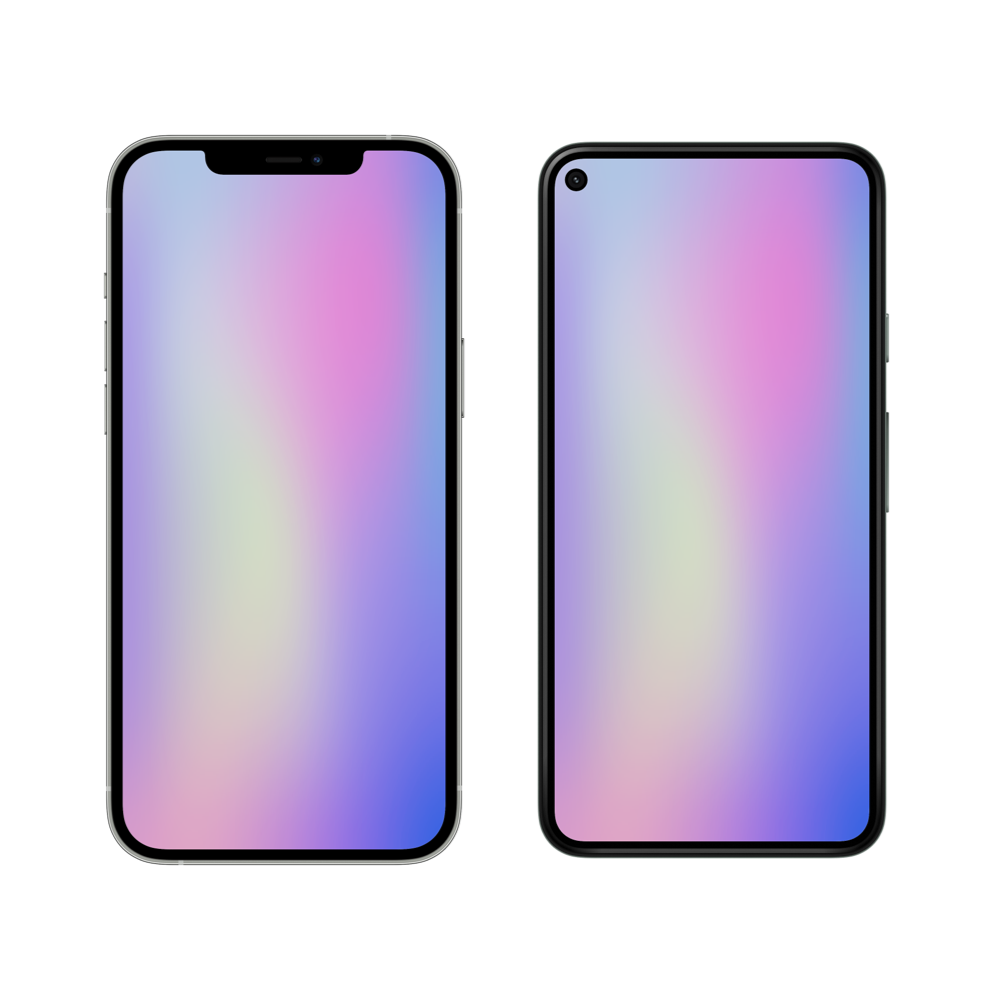
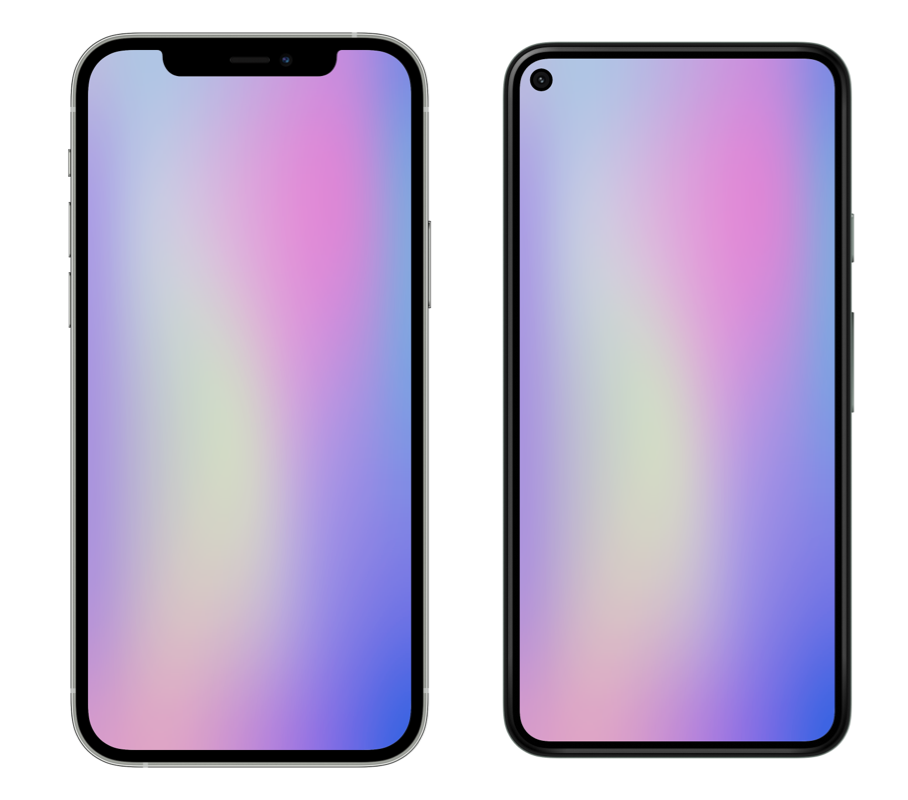
2022.01.24.4

diff --git a/README_RU.md b/README_RU.md
@@ -20,7 +20,7 @@
 Простой и удобный в использовании генератор макетов устройств. Поддерживает более 15-ти различных моделей, начиная от телефонов, заканчивая носимыми устройствами. Написан на языке программирования Python и не имеет графического интерфейса, однако поддается простому встраиванию в любой ресурс, будь то сайт или Telegram бот.
 
 <div align="center">
-  <img align="center" style="width:100%; max-width:600px;" src="https://raw.githubusercontent.com/ulbwa/ulbwa/main/static/MockupEngineer/preview.png" alt="Результат работы MockupEngineer">
+  <img style="width:100%; max-width:350px;" src="https://raw.githubusercontent.com/ulbwa/ulbwa/main/static/MockupEngineer/preview.png" alt="Результат работы MockupEngineer">
   <p>Результат работы MockupEngineer.</p>
 </div>
 

diff --git a/README.md b/README.md
@@ -20,7 +20,7 @@
 Simple and easy to use device layout generator. Supports over 15 different models ranging from phones to wearables. Written in the Python programming language and does not have a graphical interface, however, it can be easily embedded into any resource, be it a website or a Telegram bot.
 
 <div align="center">
-  <img align="center" style="width:100%; max-width:600px;" src="https://raw.githubusercontent.com/ulbwa/ulbwa/main/static/MockupEngineer/preview.png" alt="MockupEngineer Preview">
+  <img style="width:100%; max-width:350px;" src="https://raw.githubusercontent.com/ulbwa/ulbwa/main/static/MockupEngineer/preview.png" alt="Результат работы MockupEngineer">
   <p>MockupEngineer Preview.</p>
 </div>
 
